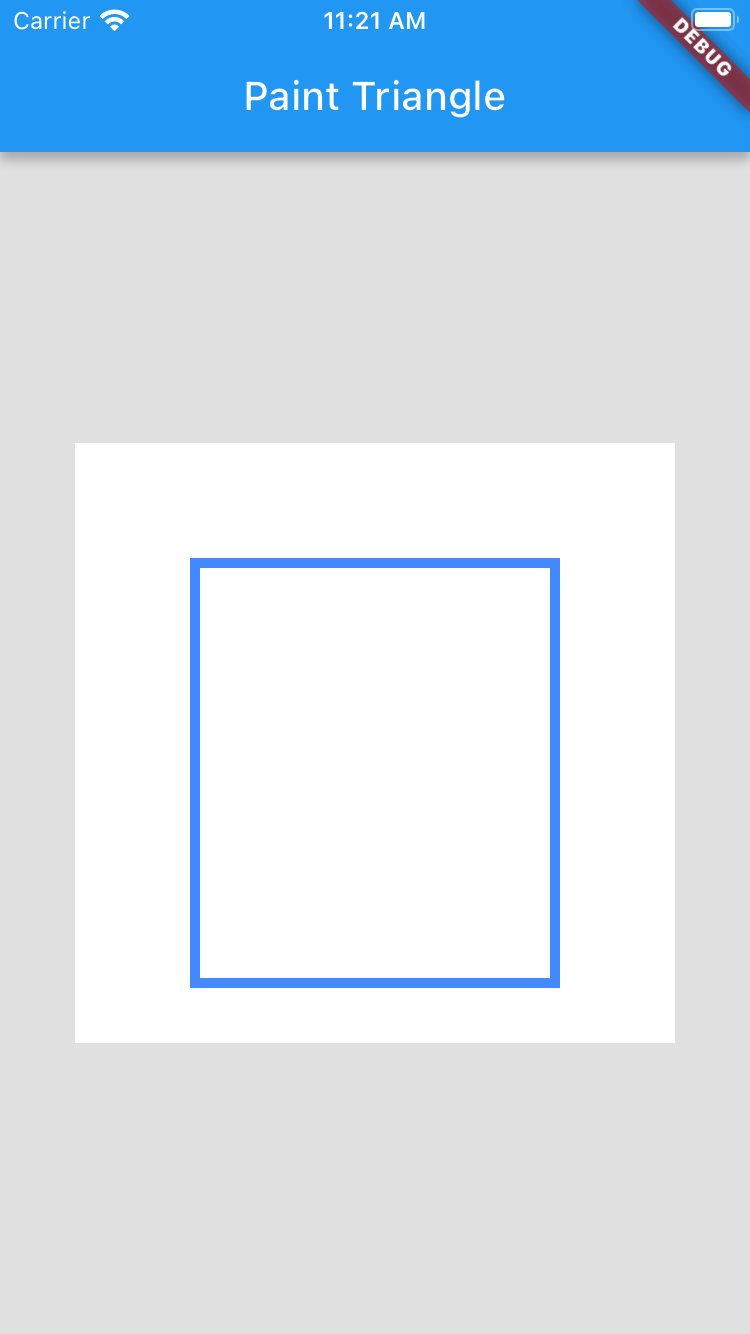
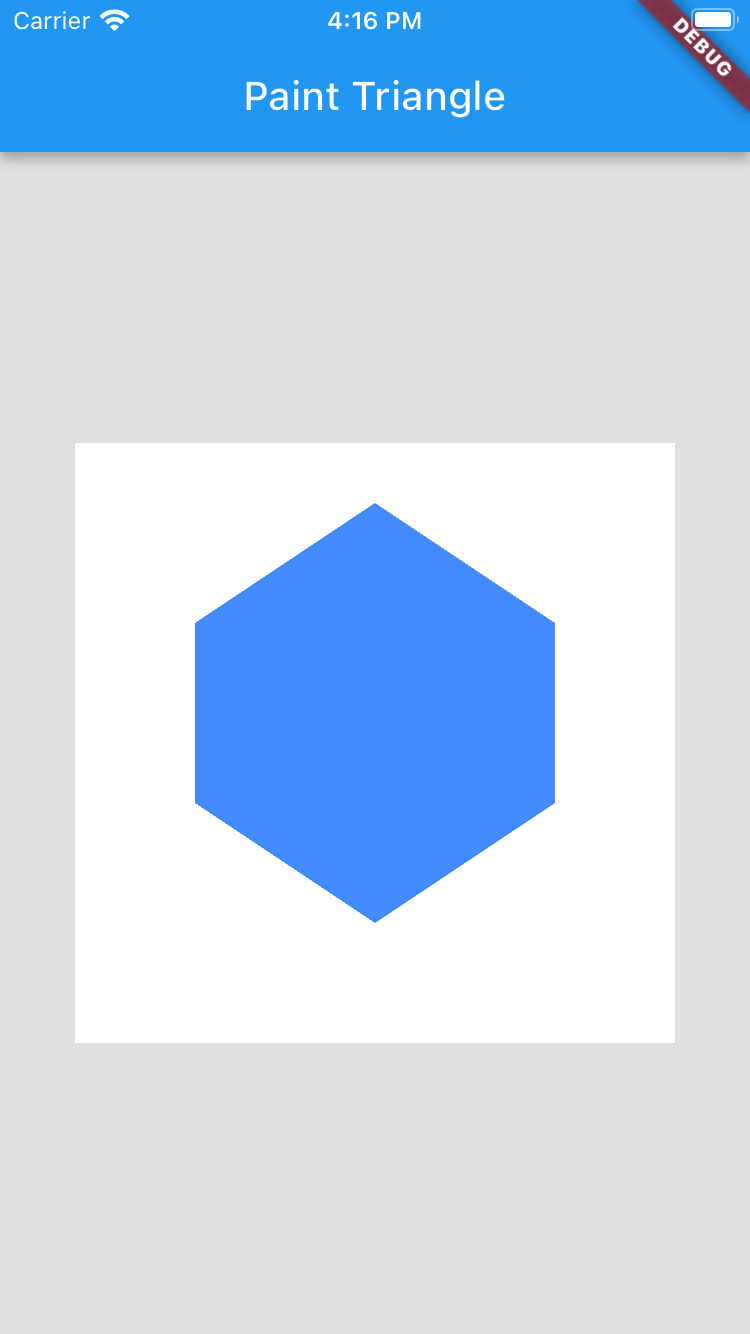
Polygon

Changed region(s): [[0.2453, 0.3688, 0.7667, 0.7376], [0.4293, 0.0, 0.5827, 0.0307]]

diff --git a/lib/main.dart b/lib/main.dart
@@ -42,15 +42,18 @@ class MyCustomPainter extends CustomPainter{
   @override
   void paint(Canvas canvas, Size size) {
     // CREATING THE BRUSH
-    Paint brush=Paint()..strokeWidth=5..color=Colors.blueAccent..style = PaintingStyle.stroke;
+    Paint brush=Paint()..strokeWidth=5..color=Colors.blueAccent..style = PaintingStyle.fill;
 
     // CREATING THE PATH
     final shape=Path();
 
-     shape.moveTo( size.width*0.2, size.height*0.2);
-     shape.relativeLineTo(size.width*0.6, 0);
-     shape.relativeLineTo(0, size.height*0.7);
-    shape.relativeLineTo(-size.width*0.6, 0);
+    shape.moveTo(size.width/2,size.height*0.1);
+    shape.relativeLineTo(size.width*0.3,size.height*0.2);
+    shape.relativeLineTo(0, size.height*0.3);
+    shape.relativeLineTo(-size.width*0.3,size.height*0.2);
+    shape.relativeLineTo(-size.width*0.3,-size.height*0.2);
+    shape.relativeLineTo(0,-size.height*0.3);
+
      shape.close();
 
 
